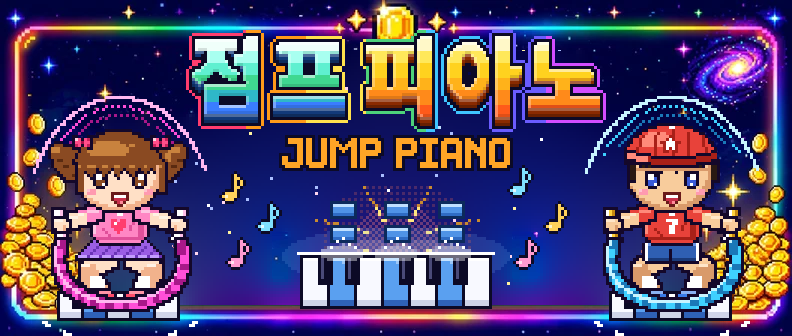
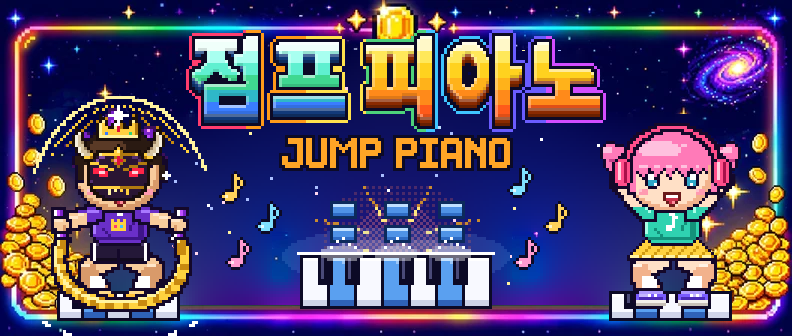
점프 피아노 배너: 캐릭터 새로 — 왼쪽 최종보스 가면 · 보라 옷 · 금빛 줄, 오른쪽 분홍 머리 · 헤드폰 · 민트 옷(줄 없이 두 손 번쩍)

diff --git a/src/games/jumprope/art.js b/src/games/jumprope/art.js
@@ -1822,3 +1822,9 @@ export function stageThumb(theme, w = 120, h = 66, scale = 1) {
   paintMoving(c, theme, w, h, gy, 3);
   return finish(cv, scale);
 }
+
+/** 배너 굽기 전용(tools/build-jumppiano-banner.mjs) — 가면을 정면으로 그린다. layer 'behind' = 머리 뒤(오라 · 끈), 그 밖 = 얼굴 위 · 왕관. 게임에서는 쓰지 않는다 */
+export function bannerMask(c, m, x, cy, layer, t = 0.4) {
+  if (layer === 'behind') maskBehind(c, m, x, cy, t, 'f', 1);
+  else { maskFace(c, m, x, cy, t, 'stand', 'f', 1); maskTop(c, m, x, cy, t, 'f', 1); }
+}
